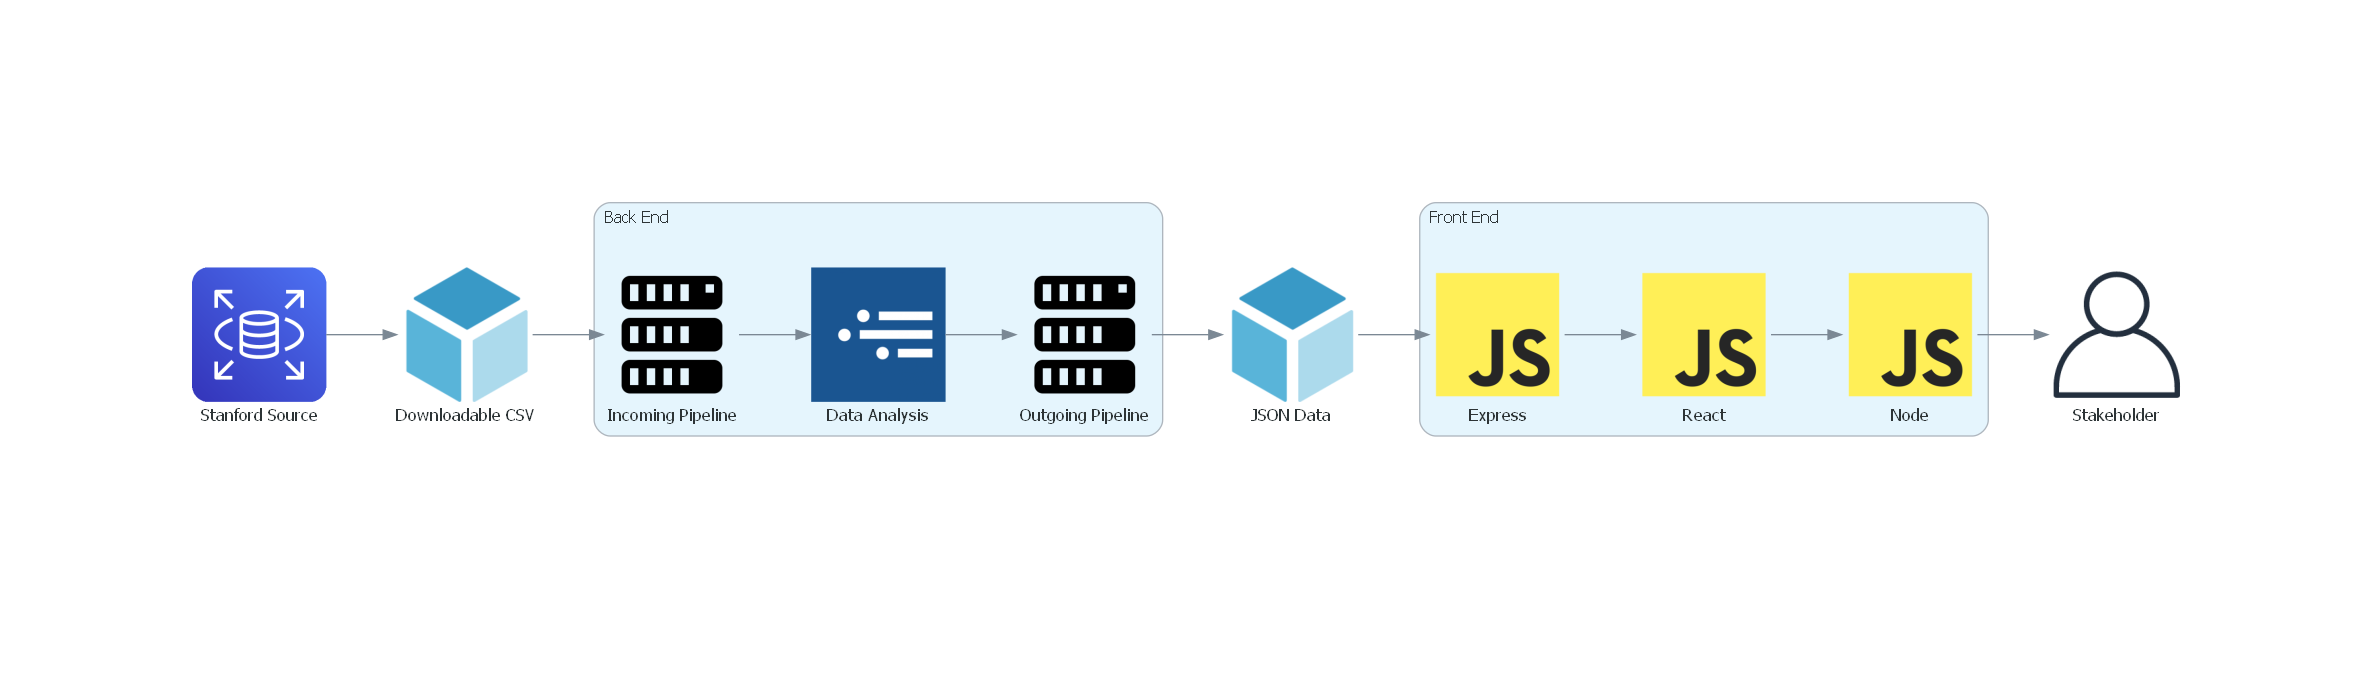
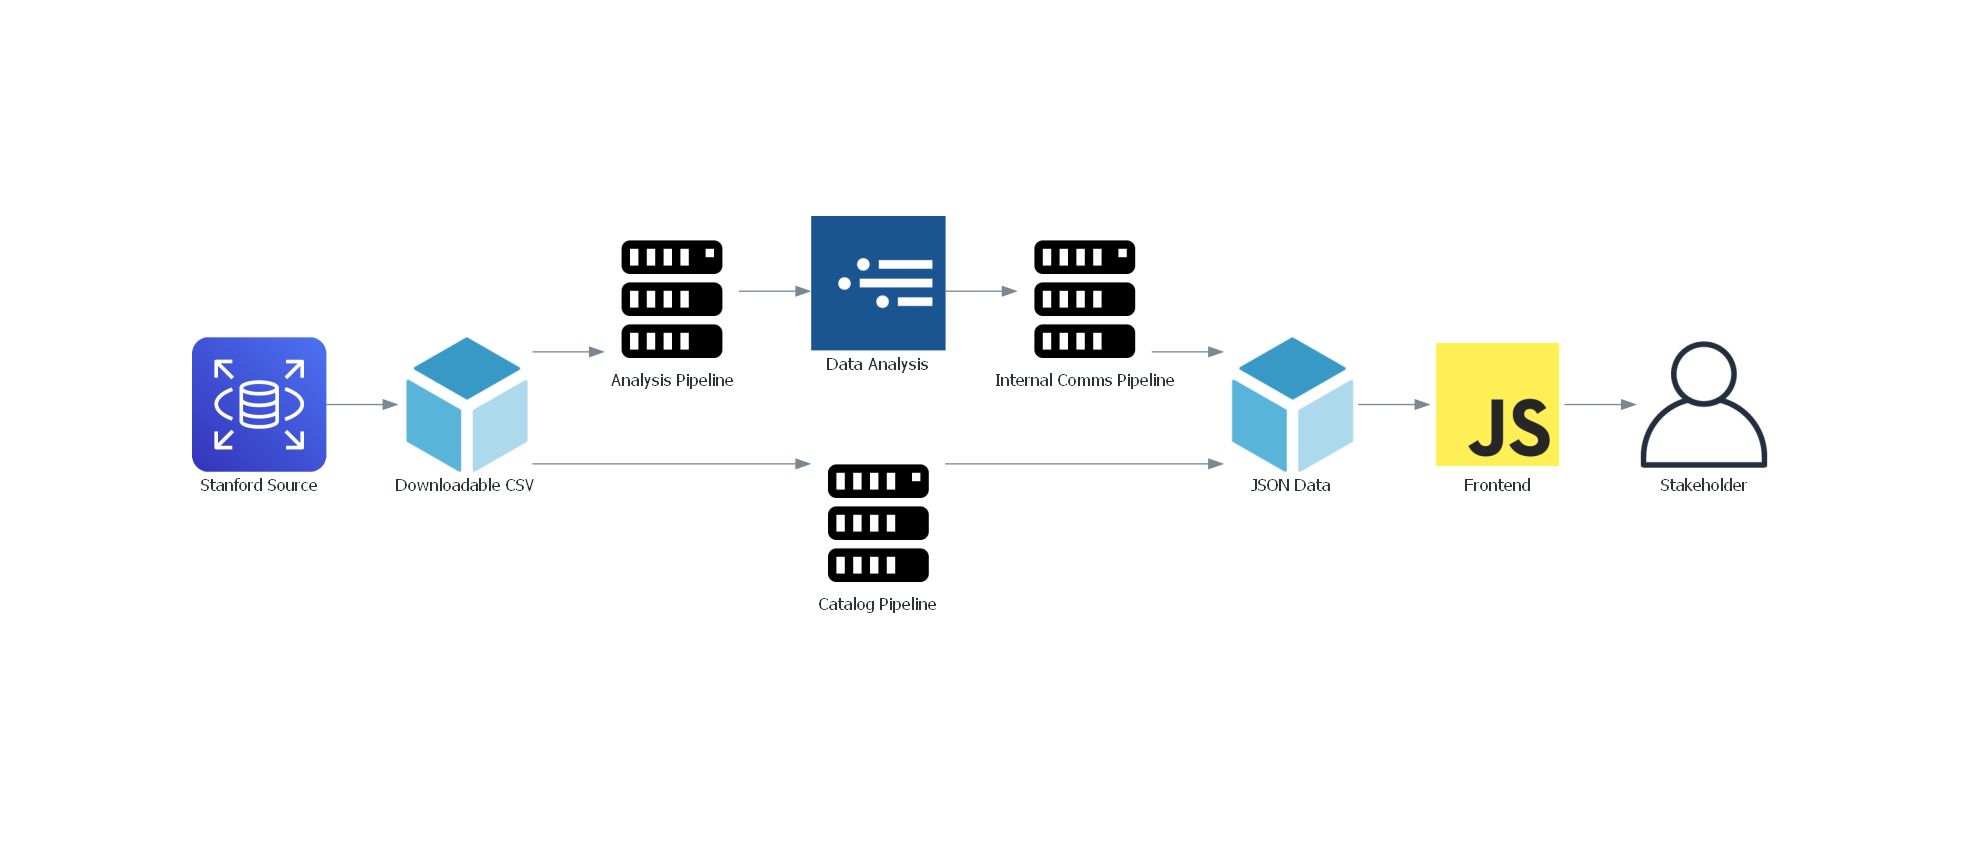
updated diagram

Changed region(s): [[0.0621, 0.2496, 0.9322, 0.7489]]

diff --git a/data/draw.py b/data/draw.py
@@ -11,19 +11,17 @@ def main():
     with Diagram(' ', filename='data_flow_diagram', show=True):
         source_db = RDS('Stanford Source')
         source_csv = Resource('Downloadable CSV')
-        with Cluster('Back End'):
-            etl_notebook = Server('Incoming Pipeline')
-            data_analytics = Singer('Data Analysis')
-            csv_2_json = Server('Outgoing Pipeline')
+        etl_notebook = Server('Analysis Pipeline')
+        csv_2_json = Server('Internal Comms Pipeline')
+        data_analytics = Singer('Data Analysis')
+        raw_pipe = Server('Catalog Pipeline')
         export_json = Resource('JSON Data')
-        with Cluster('Front End'):
-            express_backend = Javascript('Express')
-            react_frontend = Javascript('React')
-            nodejs_server = Javascript('Node')
+        frontend = Javascript('Frontend')
         website_user = User('Stakeholder')
+        source_csv >> raw_pipe >> export_json
         source_db >> source_csv >> etl_notebook >> data_analytics
         data_analytics >> csv_2_json >> export_json
-        export_json >> express_backend >> react_frontend >> nodejs_server >> website_user
+        export_json >> frontend >> website_user
 
 if __name__ == '__main__':
     main()
